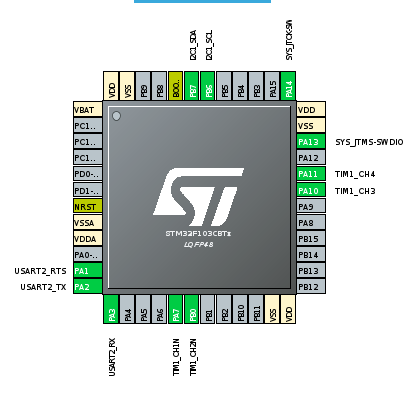
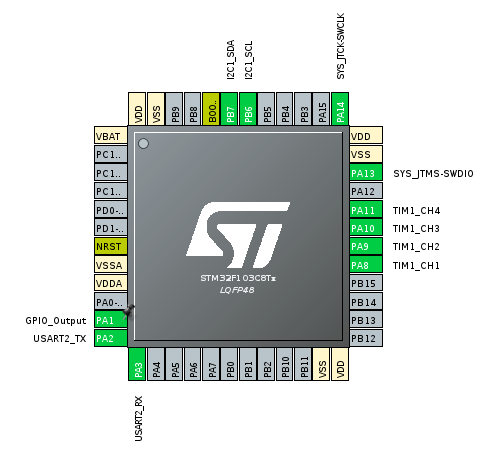
update doc

Changed region(s): [[0.0291, 0.0301, 0.9903, 0.9925], [0.3786, 0.4211, 0.6117, 0.6617], [0.3204, 0.0, 0.6699, 0.0301]]

diff --git a/README.md b/README.md
@@ -30,8 +30,8 @@ $ cargo build
 * CH 4-7, 12-15 - "инверсные"
 
 ### MCU's channels
-* CH1 (PA7) - "инверсный"
-* CH2 (PA8) - "инверсный"
+* CH1 (PA8) - "инверсный"
+* CH2 (PA9) - "инверсный"
 * CH3 (PA10) - "прямой"
 * CH4 (PA11) - "прямой"
 
